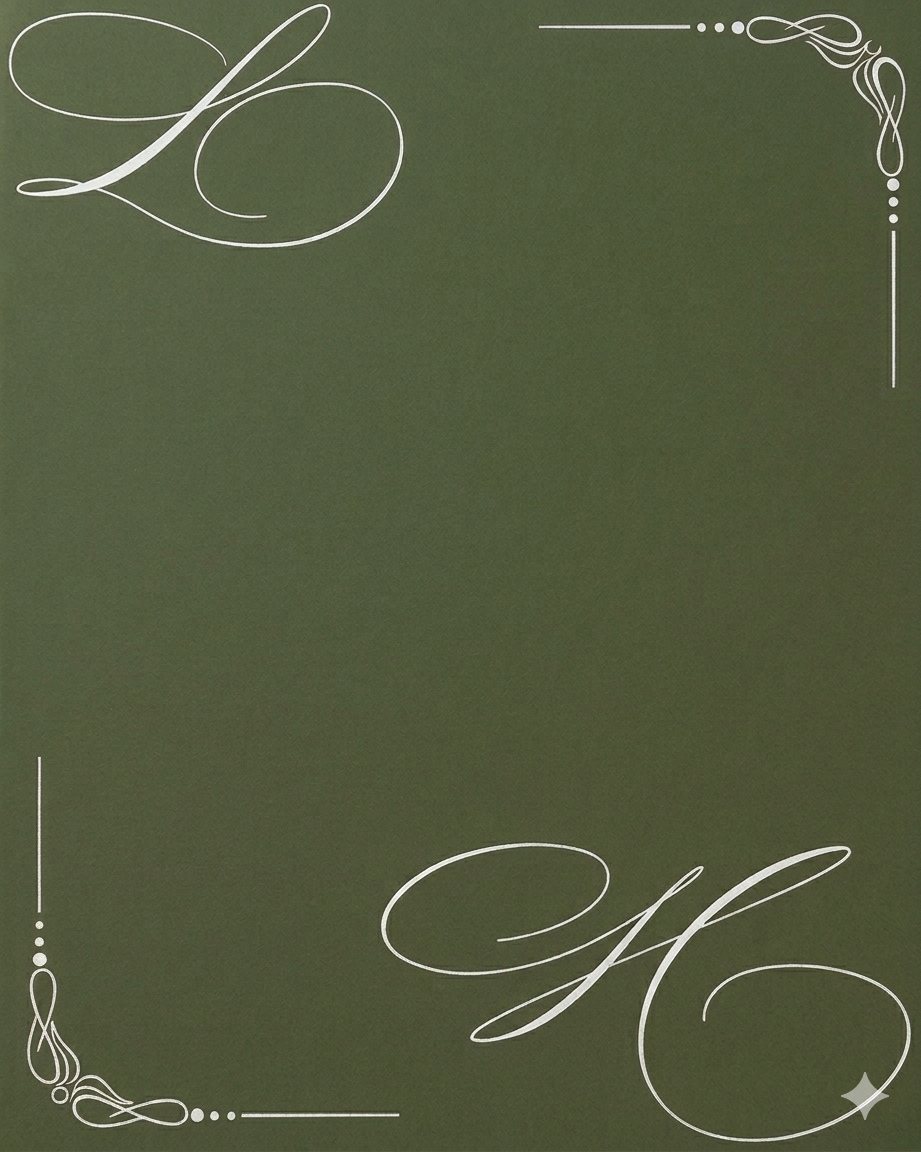
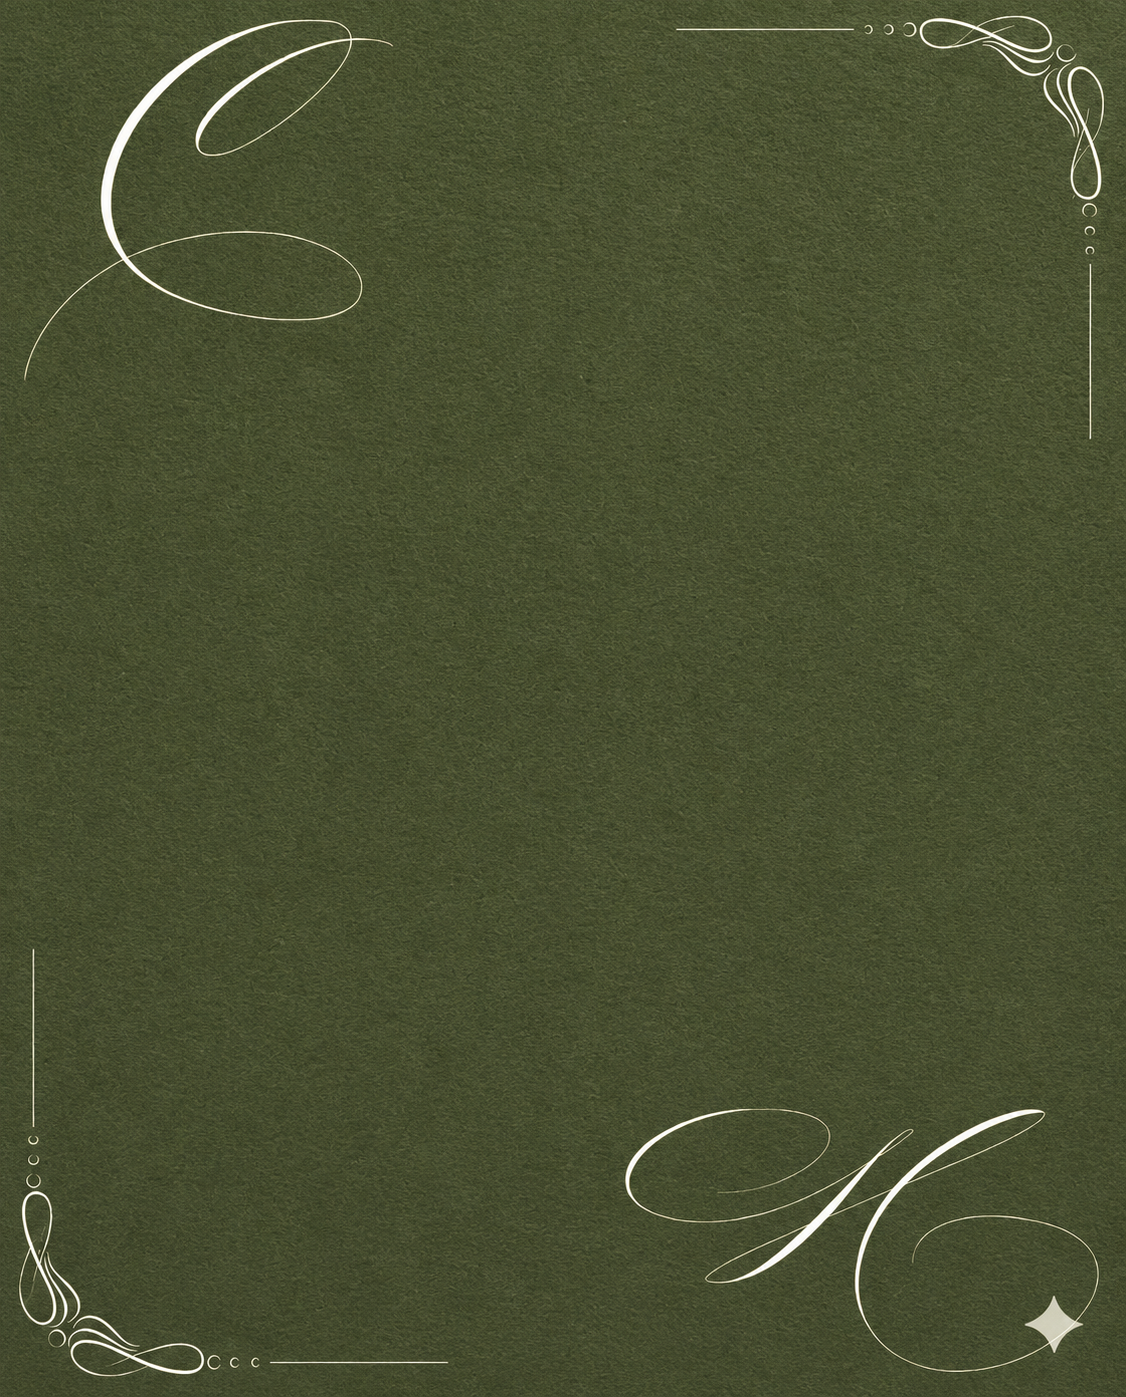
UI updates: wax seal resize, text & translation changes
- Wax seal: larger size (~30%) with center locked on flap edge
- Hero eyebrow: 'We joyfully announce' → 'Celebrating our special day' (EN/VI)
- Couple names: font size +20%
- Dress code: 'Black Tie' → 'Dress Your Best'
- VI details title: 'Lễ Thành Hôn'
- VI timeline title: 'Chương trình chi tiết'
- EN footer: 'Made with love' → 'Your presence is truly the most meaningful gift on our special day.'

diff --git a/js/main.js b/js/main.js
@@ -201,6 +201,7 @@ musicBtn.addEventListener('click', e => {
 
 const i18n = {
   en: {
+    'hero-eyebrow':         'Celebrating our special day',
     'flap-date':            '17 · December · 2026',
     'scroll-cue':           'scroll to open',
     'wedding-date':         'Thursday · December 17 · 2026',
@@ -214,7 +215,7 @@ const i18n = {
     'ceremony-venue-label': 'Ceremony Venue',
     'map-btn':              'Open in Maps',
     'dress-label':          'Dress Code',
-    'dress-value':          'Black Tie',
+    'dress-value':          'Dress Your Best',
     'dress-sub':            'Formal Attire Requested',
     'timeline-title':       'Ceremony Schedule',
     'ev-ceremony':          'Ceremony',
@@ -237,10 +238,10 @@ const i18n = {
     'label-guests':         'Number of Guests',
     'ph-guests':            'Enter number of guests',
     'label-dietary':        'Leave us a message',
-    'ph-dietary':           'Special request',
+    'ph-dietary':           'Spe cial request',
     'btn-rsvp':             'Send RSVP',
     'footer-date':          'December 17, 2026 · Hanoi City',
-    'footer-made':          'Made with love',
+    'footer-made':          'Your presence is truly the most meaningful gift on our special day.',
     'fc-names':             'Cathy & Hung',
     'groom-name':           'Hung',
     'family-bride-father':  'Mr. Chu Dinh Luong',
@@ -254,6 +255,7 @@ const i18n = {
     'venue-sub':            '3A Dao Duy Anh st, Kim Lien, Hanoi · 12:00 PM',
   },
   vi: {
+    'hero-eyebrow':         'Chung vui cùng chúng mình trong ngày đặc biệt',
     'flap-date':            '17 · Tháng 12 · 2026',
     'scroll-cue':           'cuộn để mở',
     'wedding-date':         'Thứ Năm · 17 Tháng 12 · 2026',
@@ -261,7 +263,7 @@ const i18n = {
     'brides-family':        'Nhà Gái',
     'grooms-family':        'Nhà Trai',
     'family-message':       'Trân trọng kính mời tới dự bữa tiệc Lễ Thành Hôn cùng gia đình chúng tôi',
-    'details-title':        'Chương Trình',
+    'details-title':        'Lễ Thành Hôn',
     'date-label':           'Ngày',
     'date-sub':             'Thứ Năm',
     'ceremony-venue-label': 'Địa Điểm Tổ Chức',
@@ -269,7 +271,7 @@ const i18n = {
     'dress-label':          'Trang Phục',
     'dress-value':          'Lịch Sự',
     'dress-sub':            'Trang phục trang trọng',
-    'timeline-title':       'Chương Trình Tiệc Cưới',
+    'timeline-title':       'Chương trình chi tiết',
     'ev-ceremony':          'Lễ Thành Hôn',
     'ev-cocktail':          'Tiệc Cocktail',
     'ev-cocktail-place':    'Sân Vườn',

diff --git a/css/style.css b/css/style.css
@@ -330,11 +330,11 @@ body::after {
 
 #wax-seal {
   position: absolute;
-  right: clamp(-136px, -11.9vw, -94px);
+  right: clamp(-175px, -15.5vw, -120px);
   top: 50%;
   transform: translateY(-50%);
-  width:  clamp(187px, 23.8vw, 272px);
-  height: clamp(187px, 23.8vw, 272px);
+  width:  clamp(240px, 31vw, 350px);
+  height: clamp(240px, 31vw, 350px);
   z-index: 20;
   animation: sealGlow 3s ease-in-out infinite;
 }
@@ -447,7 +447,7 @@ body::after {
 }
 .couple-names {
   font-family: 'Great Vibes', cursive;
-  font-size: clamp(40px, 8vw, 96px);
+  font-size: clamp(48px, 9.6vw, 115px);
   color: #5E7848;
   line-height: 1.05;
 }
@@ -917,7 +917,7 @@ footer {
 
 @media (max-width: 768px) {
   .fcorner    { width: clamp(52px, 13vw, 75px); }
-  #wax-seal   { width: 150px; height: 150px; right: -75px; }
+  #wax-seal   { width: 192px; height: 192px; right: -96px; }
   #flap-left  { width: 62%; }
   #flap-right { width: 41%; }
   .gc-thumb { width: 52px; height: 38px; }

diff --git a/index.html b/index.html
@@ -62,7 +62,7 @@
     <div id="envelope">
 
       <div id="envelope-names">
-        <p class="eyebrow">We joyfully announce</p>
+        <p class="eyebrow" data-i18n="hero-eyebrow">Celebrating our special day</p>
         <div class="couple-names">
           <span>Cathy</span>
           <span class="ampersand">&amp;</span>
@@ -178,7 +178,7 @@
       <div class="d-card fu">
         <div class="d-icon">◇</div>
         <div class="d-label" data-i18n="dress-label">Dress Code</div>
-        <div class="d-value" data-i18n="dress-value">Black Tie</div>
+        <div class="d-value" data-i18n="dress-value">Dress Your Best</div>
         <div class="d-sub" data-i18n="dress-sub">Formal Attire Requested</div>
       </div>
 